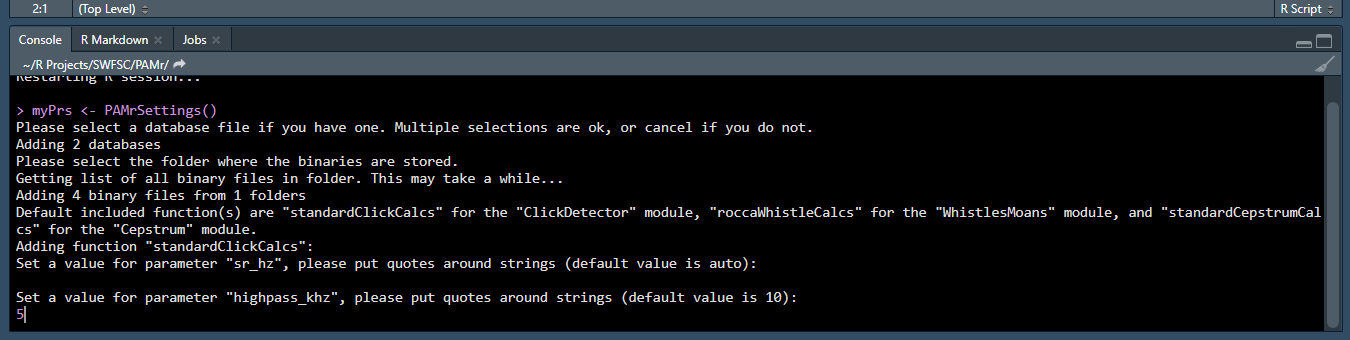
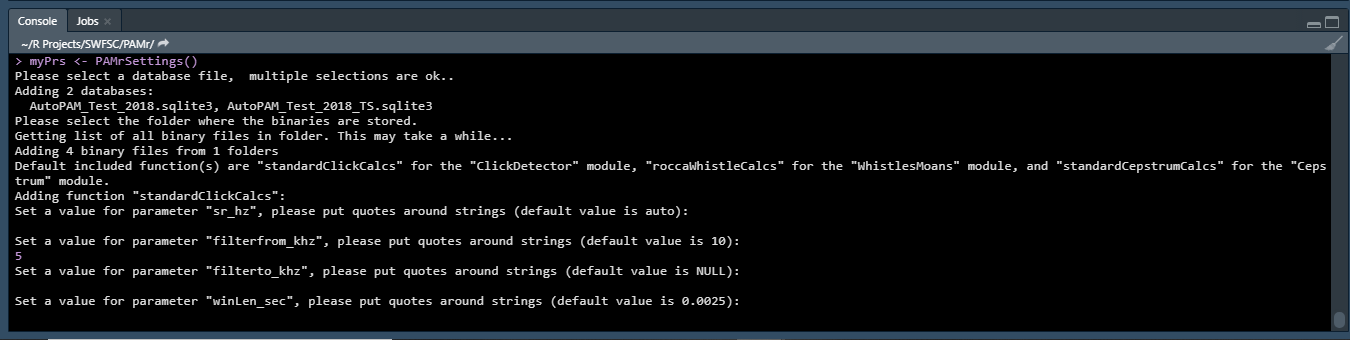
tutorial updated for bandpass click calcs

diff --git a/docs/PAMrSettings.md b/docs/PAMrSettings.md
@@ -1,12 +1,11 @@
 ## The PAMrSettings object
 
-*This section is still being organized, please check back later!*
-
-
 The first step in using PAMr is to create a PAMrSettings object. This is an
 S4 class created for this package, and will store all settings related to a
 particular anaylsis. The goal of this object is to make it easy to share and
-replicate results between users. 
+replicate results between users. All you need to do is send someone your
+PAMrSettings object and they can see exactly how you analysed your data, or 
+even point the PRS at their own data and process it in the exact same way.
 
 A PAMrSettings object has four slots:
 
@@ -15,16 +14,18 @@ A PAMrSettings object has four slots:
 path to all individual Pamguard binary (.pgdf) files within those folders
 * functions - This stores a set of functions that will be applied to the data 
 when read in from the database/binary files. Stores functions for the 
-'ClickDetector' and 'WhistlesMoans' modules separately. When adding a new 
+'ClickDetector', 'WhistlesMoans', and 'Cepstrum' modules separately. When adding a new 
 function, users are asked to supply values for any arguments of the function.
 These values are saved with the function and cannot be changed without removing
 the function entirely. 
-* calibration - Currently does nothing, in later versions will store calibration
-functions to apply to data before making any calculations.
+* calibration - Stores a calibration function to correct for different hydrophone
+characteristics. Optional, currently only affects certain 'ClickDetector' functions
 
+Note that none of these slots should ever be manually edited, use the functions described
+below if you want to add or remove anything.
 
-
-A PAMrSettings object can also be created by directly supplying the database and binary
+A PAMrSettings object can be created without supplying any arguments (as described in the
+[quick start guide](README.md)), or it can be created by directly supplying the database and binary
 file paths, although the user will still be asked to input parameters for the 
 `standardClickCalcs` function.
 
@@ -36,8 +37,8 @@ myPrs <- PAMrSettings(db = myDb, binaries = myBinaryFolder)
 #### Adding to Your PRS
 
 After the initial set-up of your PRS, you may want to add to it. There are 
-three functions that accomplish this: `addDatabase`, `addBinaries`, and
-`addFunction`. The first two are simple, and can be called interactively
+four functions that accomplish this: `addDatabase`, `addBinaries`,
+`addFunction`, and `addCalibration`. The first two are simple, and can be called interactively
 just like the initial PRS setup or by providing the paths.
 
 ```r

diff --git a/docs/README.md b/docs/README.md
@@ -111,9 +111,12 @@ shown. There are three parameters you will be asked to set
 1. "sr_hz" - the sample rate in hertz for the click data. This should be kept 
 to the default value of "auto" (just press ENTER) unless your click data was
 decimated, in which case enter the decimated sample rate.
-2. "highpass_khz" - the value in kilohertz of the butterworth highpass filter
-to apply to the click data. If 0, then no filter will be applied.
-3. "winLen_sec" - the length of the FFT window to use for analysis, in seconds
+2. "filterfrom_khz" - the value in kilohertz of the butterworth highpass filter, or
+if a bandpass filter is desired (see next item) the lower end of the filter. If this value
+is 0 then no filter will be applied.
+3. "filterto_khz" - if a bandpass filter is desired, this is the upper bound of the
+filter. If a highpass or no filter is desired, leave as the default NULL (just press enter)
+4. "winLen_sec" - the length of the FFT window to use for analysis, in seconds
 
 <a href="images/FunctionParamsCropped.png" data-lightbox="function-value" data-title="Setting a value of 5 for the highpass filter">![](images/FunctionParamsCropped.png)</a>
 
@@ -154,7 +157,7 @@ And you're done! Let's take a look at what you got with one of PAMr's built in p
 `plotDataExplorer`. After calling `plotDataExplorer(myStudy)`, you might be asked to select a
 call type to explore, then you should see something like this:
 
-<a href="images/PlotExplorer.png" data-lightbox="function-value" data-title="Data explorer plot - click the gear to see dropdown menus">![](images/PlotExplorer.png)</a>
+<a href="images/PlotExplorer.png" data-lightbox="data-explorer" data-title="Data explorer plot - click the gear to see dropdown menus">![](images/PlotExplorer.png)</a>
 
 Click the gear in the top left of the plot, then you'll see drop down menus that you can use to
 choose which data you'd like to graph, and options for coloring and facetting (splitting into
